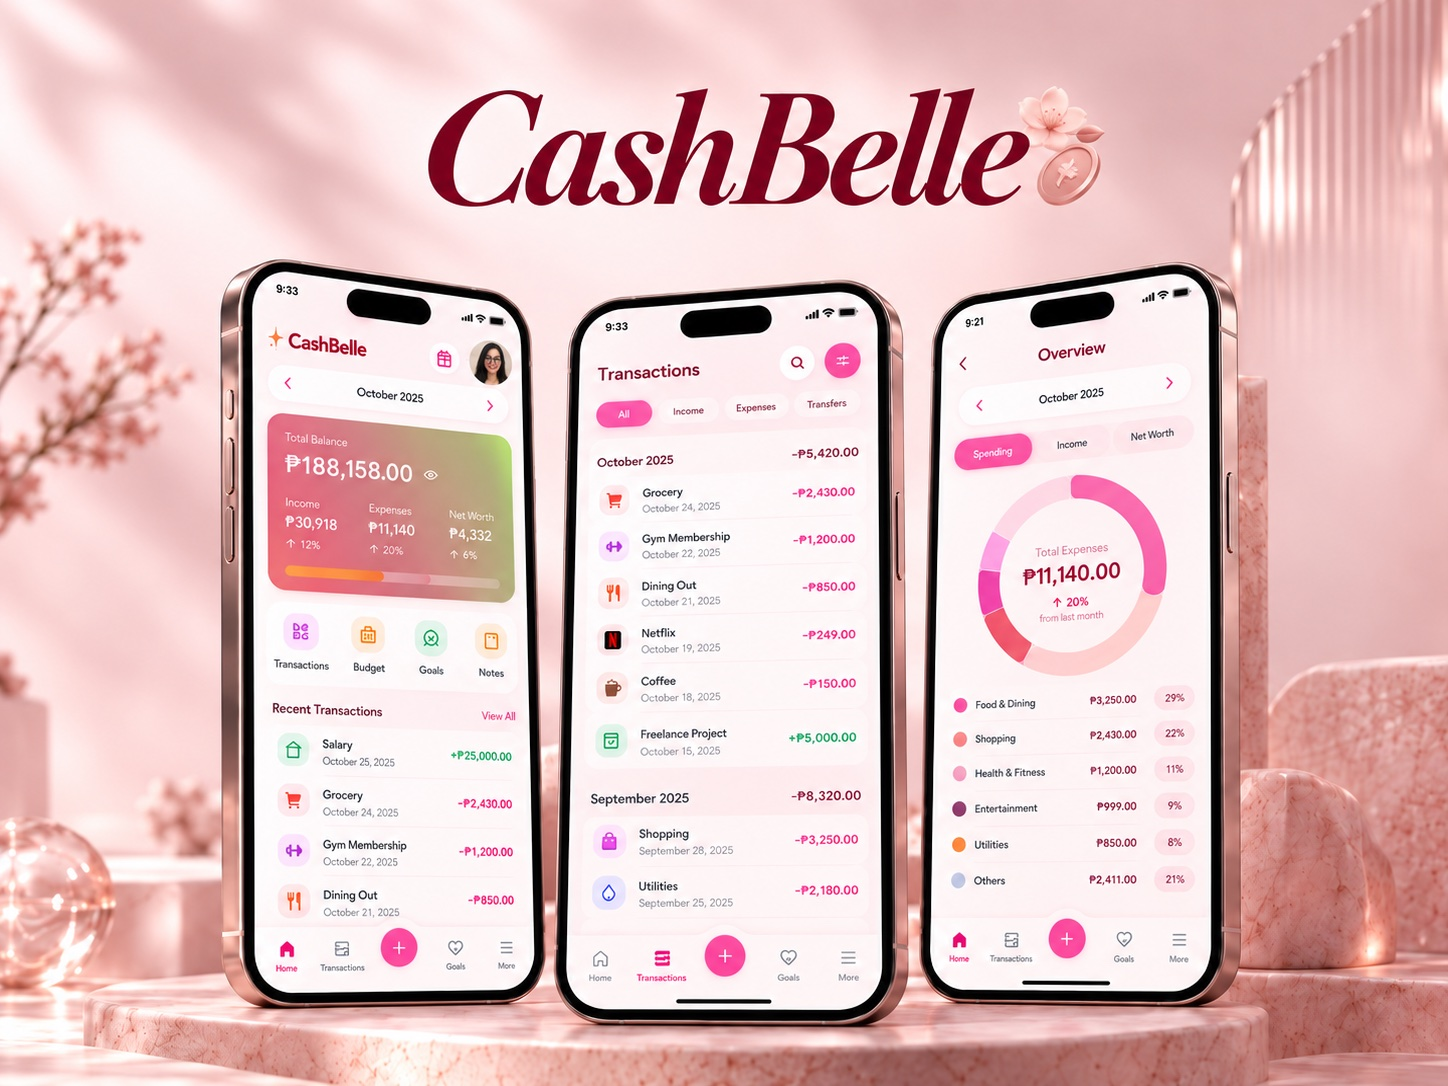
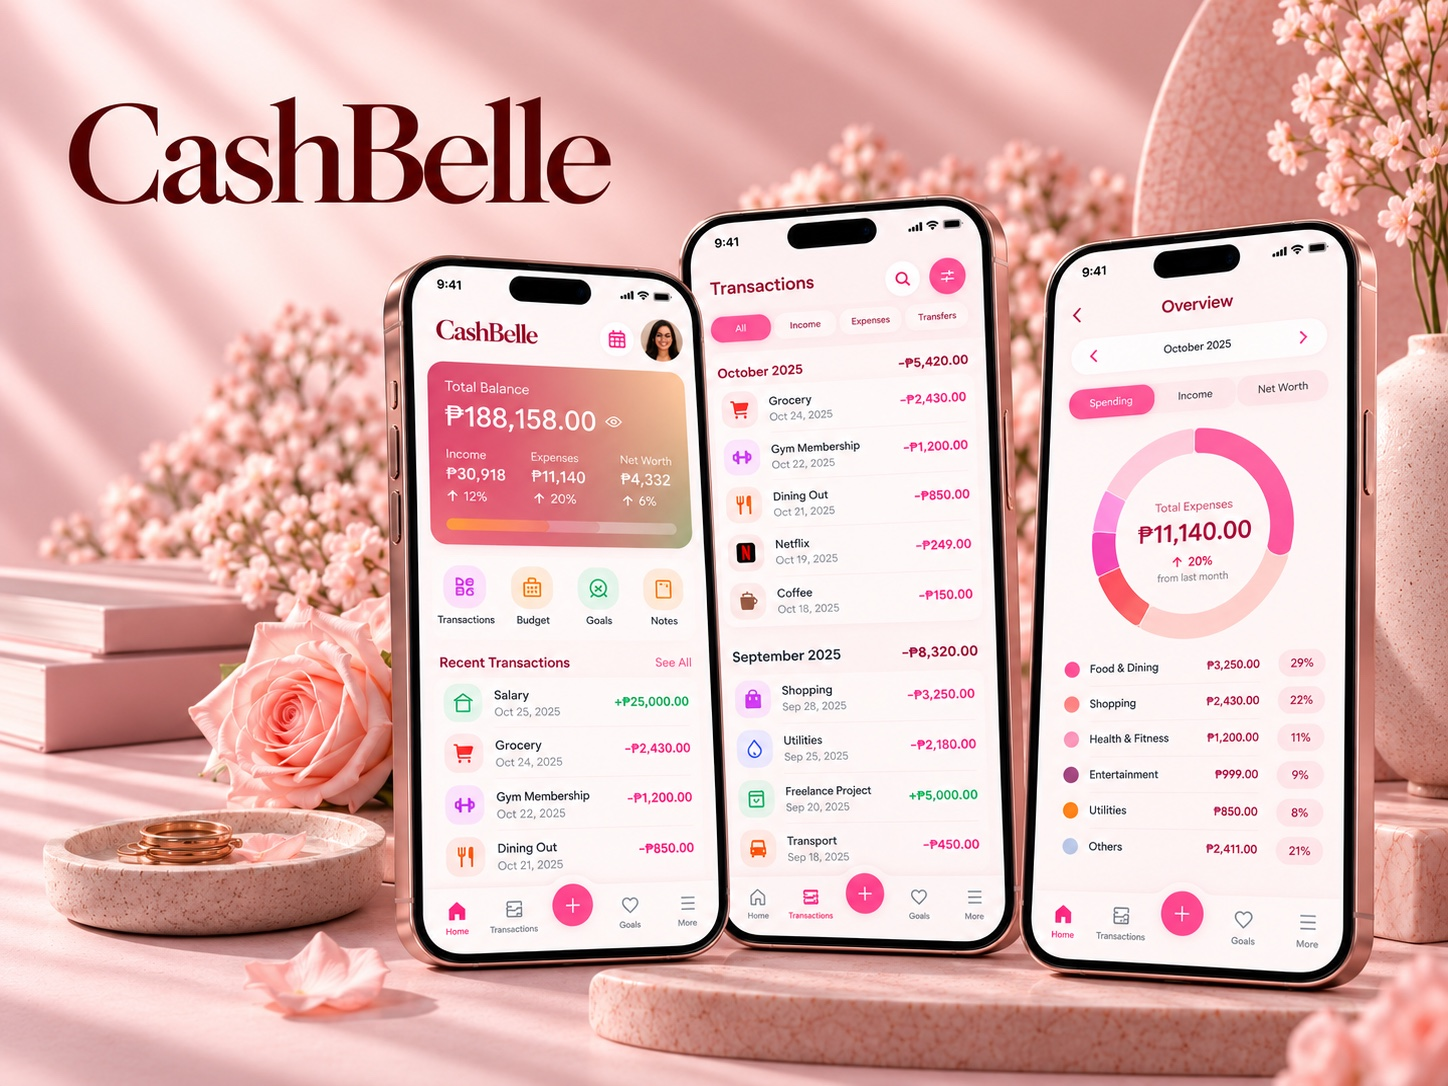
Update independent project cover artwork

diff --git a/src/components/pages/CaseStudyPage.jsx b/src/components/pages/CaseStudyPage.jsx
@@ -7,7 +7,7 @@ const studies = {
     intro: 'A clearer picture of money, in one place.',
     summary: 'CashBelle helps a person record income and expenses and see how those choices affect cash, investments, debts, and net worth. I built it first for my own use and designed it so others can create an account with their email address.',
     live: 'https://cashbelle.vercel.app/',
-    cover: '/portfolio/covers/cashbelle-2026.jpg',
+    cover: '/portfolio/covers/cashbelle-2026.jpg?v=20261017',
     accent: 'emerald',
     problem: 'Money information can end up scattered across notes, accounts, and mental calculations. I wanted a personal view that connects everyday transactions with savings goals, investments, money lent or borrowed, and an overall net-worth picture.',
     audience: 'People who want to keep track of their own finances in one app. I currently use CashBelle myself; it is designed to allow other people to sign up with email. I have not documented feedback from outside users.',
@@ -42,7 +42,7 @@ const studies = {
     intro: 'One welcoming space for plans, progress, and reflection.',
     summary: 'Goddess Plan brings routines, workout planning, meals, goals, and personal notes together. I designed it for people who want to build healthier habits, plan their days, and have a private-feeling place to reflect without judgment.',
     live: 'https://goddess-plan.vercel.app/',
-    cover: '/portfolio/covers/goddess-plan-2026.jpg',
+    cover: '/portfolio/covers/goddess-plan-2026.jpg?v=20261017',
     accent: 'purple',
     problem: 'Daily plans, workouts, food notes, and life goals are often kept in different places. I wanted a flexible home for practical checklists and progress tracking, with room for reflection as well.',
     audience: 'People working toward weight or activity goals, planning routines, and following goals in other parts of life. The diary is intended to feel welcoming; that is a design intention, not a privacy or medical guarantee.',

diff --git a/src/data/experienceData.js b/src/data/experienceData.js
@@ -81,7 +81,7 @@ export const experiences = [
     role: 'AI-Assisted Web App Creator',
     period: '2026 – Present',
     image: '/portfolio/apps/goddess-home-light.webp',
-    cover: '/portfolio/covers/goddess-plan-2026.jpg',
+    cover: '/portfolio/covers/goddess-plan-2026.jpg?v=20261017',
     thumbnail: '/portfolio/apps/thumbs/goddess-home-light.jpg',
     gallery: [
       appScreenshot('goddess-home-light', 'Goddess Plan daily dashboard in light theme'),
@@ -119,7 +119,7 @@ export const experiences = [
     role: 'AI-Assisted Web App Creator',
     period: '2026 – Present',
     image: '/portfolio/apps/cashbelle-dashboard-light.webp',
-    cover: '/portfolio/covers/cashbelle-2026.jpg',
+    cover: '/portfolio/covers/cashbelle-2026.jpg?v=20261017',
     thumbnail: '/portfolio/apps/thumbs/cashbelle-dashboard-light.jpg',
     gallery: [
       appScreenshot('cashbelle-dashboard-light', 'CashBelle dashboard with net worth and cash in light theme'),
